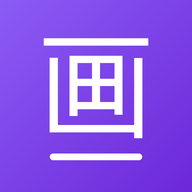
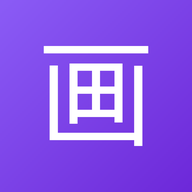
图标去掉底部横线 + SW art-v5

Changed region(s): [[0.25, 0.5312, 0.75, 0.8438], [0.2188, 0.1875, 0.7812, 0.375], [0.375, 0.4062, 0.625, 0.5]]

diff --git a/service-worker.js b/service-worker.js
@@ -1,6 +1,6 @@
 /* 美术台 - Service Worker（离线缓存）
    版本 art-v2：新增 daily.js 每日数据 + nocache 强制更新通道 */
-const CACHE = 'art-v4';
+const CACHE = 'art-v5';
 const ASSETS = [
   './',
   './index.html',
